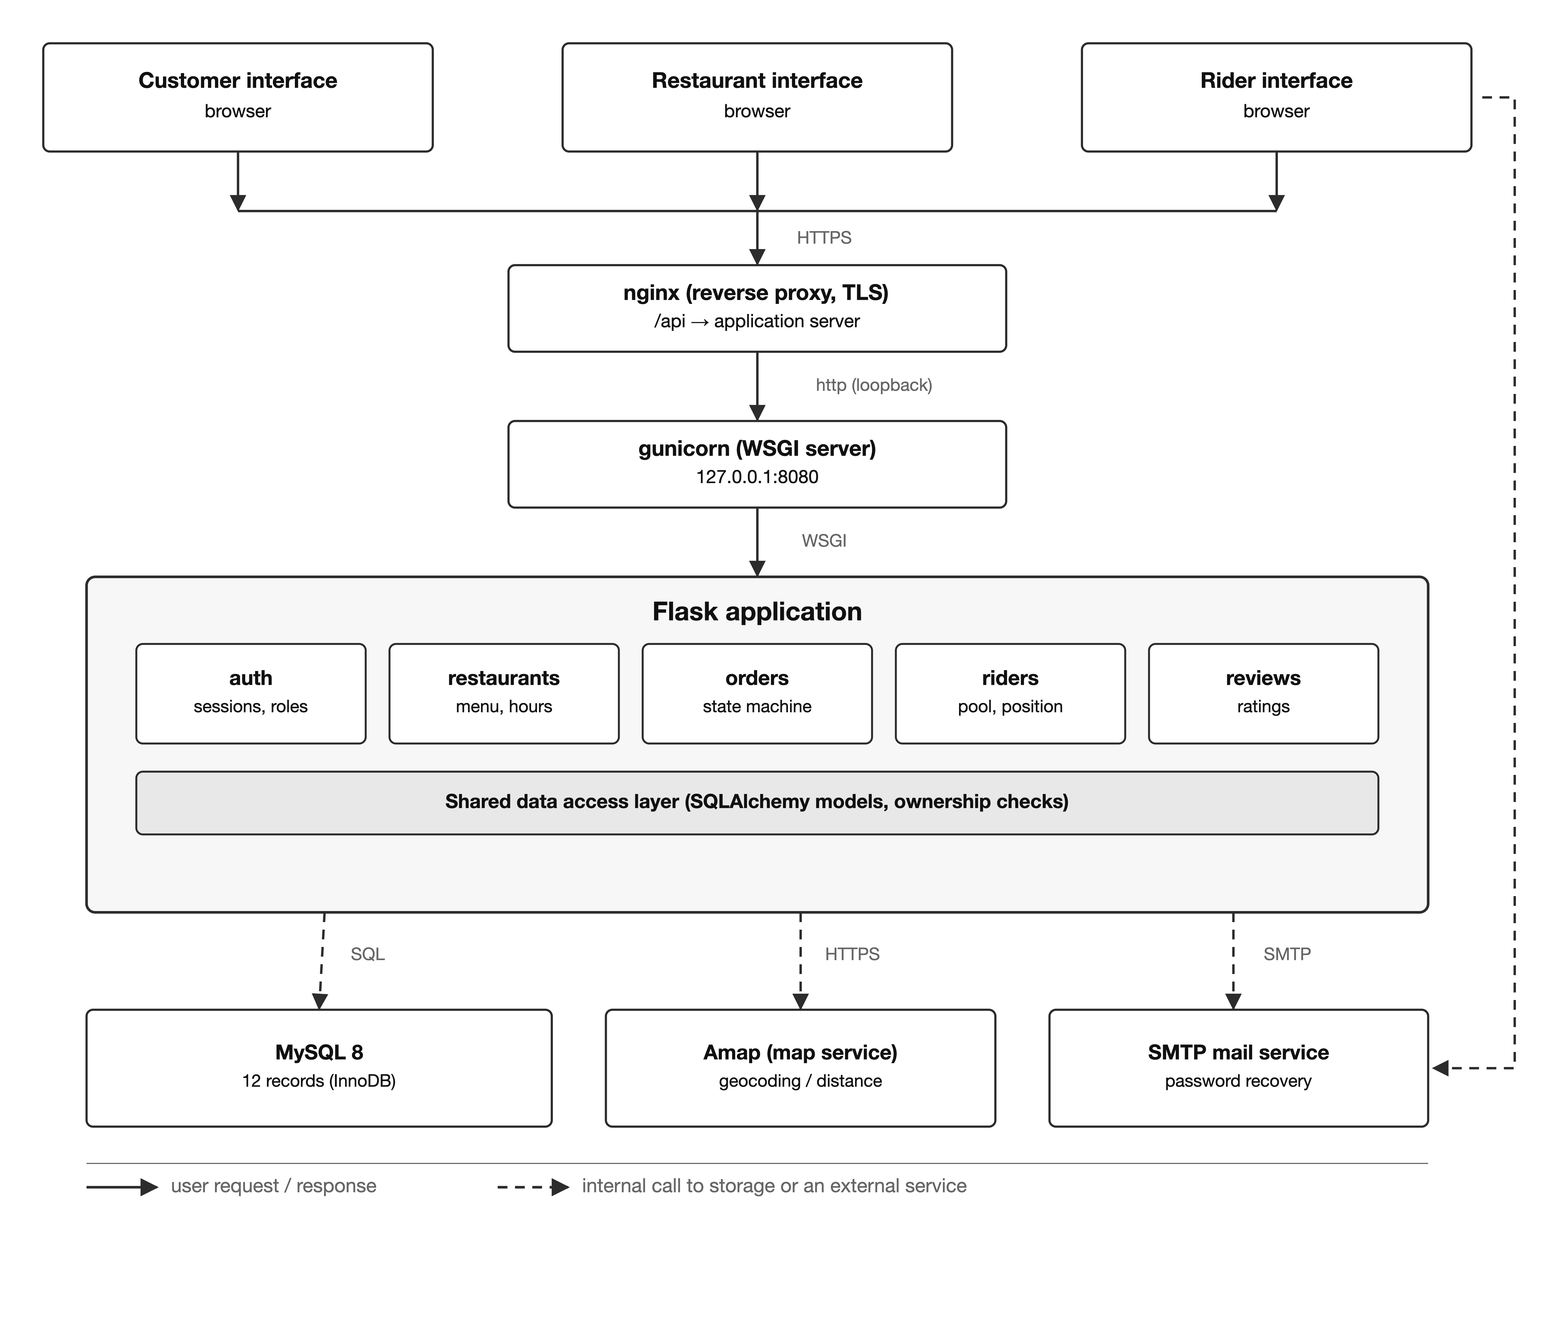
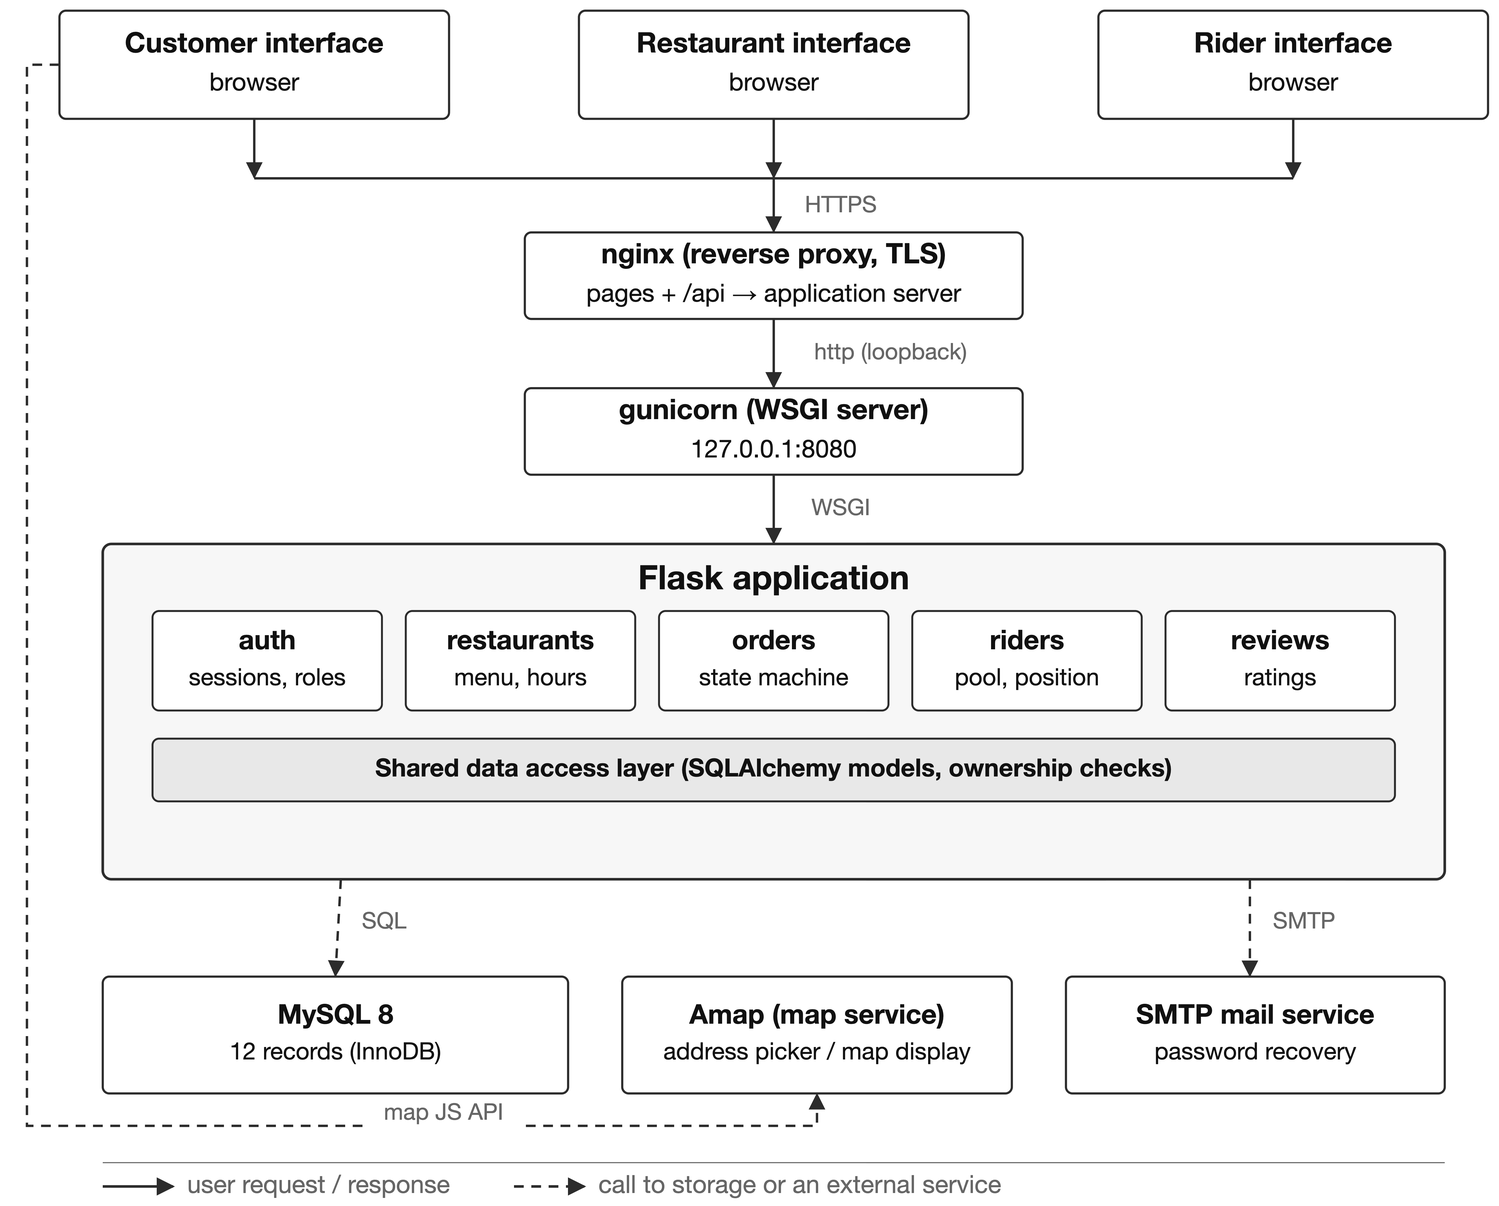
M1 report: align the design text and diagram with what was built
- vanilla fetch instead of jQuery/AJAX; nginx forwards pages as well as /api
- twelve records again: the missing rider-profile row is in Table 1
- cancellation rule matches the shipped state machine (free while placed or
  accepted, restaurant-only once the kitchen starts preparing), in both the
  LaTeX report and the design document
- one-time codes cover code sign-in, not only password reset
- reviews: duplicate rating refused in the endpoint, not by a constraint
- Amap: one browser key, no server call (radius is computed locally); the
  diagram no longer draws a server-to-map request, and the browser-to-map
  arrow no longer lands on the SMTP box
- diagram type ~30% larger, tighter crop, included at 0.68\linewidth
- Table 1 compacted so it no longer separates the 'User workflow' heading
  from its list; still 5 pages, no overfull boxes

diff --git a/docs/M1/main.tex b/docs/M1/main.tex
@@ -58,9 +58,10 @@ without them the topic's central workflow cannot be demonstrated. The remainder 
 \emph{optional} additions that we will attempt only once the essential set works end to end.
 
 \begin{itemize}
-\item \textbf{F1 --- Accounts and roles.} All three roles register and sign in through one entry
-point; the role determines which interface is shown. Result: an authenticated session that the
-server uses to authorise every later request.
+\item \textbf{F1 --- Accounts and roles.} Each role registers and signs in through its own
+interface; all three share one authentication module and one session, and the role decides what that
+session may reach. Result: an authenticated session that the server uses to
+authorise every later request.
 \item \textbf{F2 --- Restaurant menu and hours.} Restaurant staff set opening hours per weekday,
 add and edit dishes with price, calories and remaining stock, and mark a dish unavailable.
 Result: the public menu always reflects what the kitchen can actually produce now.
@@ -91,15 +92,15 @@ add value but are not required by the topic, so they come last and are reduced f
 \item \emph{Ownership.} A record may only be changed by the party that owns it: a dish by its
 own restaurant, an order by its own customer, restaurant or rider. The check is made on the
 server for every query, not by hiding controls in the interface.
-\item \emph{Transition authority.} Each state change belongs to exactly one role. Only the
-restaurant may accept and prepare; only a rider may collect and deliver. No role may skip a
+\item \emph{Transition authority.} Apart from cancellation, each state change belongs to exactly one
+role: only the restaurant may accept and prepare, and only a rider may collect and deliver. No role may skip a
 state.
 \item \emph{Claim exclusivity.} An order enters the rider pool only when it is ready and has no
 rider. Claiming is a single conditional update, so if two riders act at the same moment exactly
 one succeeds and the other is told the order has gone.
-\item \emph{Cancellation window.} Cancellation is free while the order is still awaiting
-acceptance. Once the restaurant has accepted, preparation may have started, so cancellation
-requires the restaurant's agreement.
+\item \emph{Cancellation window.} The customer may cancel while the order is placed or accepted,
+because nothing has been cooked yet. Once the kitchen starts preparing, only the restaurant may
+cancel, and it records why.
 \item \emph{Delivery range.} An order is refused if the selected address lies outside the
 restaurant's configured delivery radius, and the customer is told why.
 \item \emph{Record integrity.} Address and prices are copied into the order when it is placed.
@@ -110,7 +111,8 @@ Later edits to an address or a menu therefore cannot rewrite the history of past
 
 \noindent\textbf{Application structure.} Figure~\ref{fig:structure} shows the main parts.
 Three browser interfaces --- customer, restaurant and rider --- send requests over HTTPS to a
-reverse proxy, which forwards everything under \texttt{/api} to the application server. The
+reverse proxy, which forwards every request --- pages as well as \texttt{/api} --- to the
+application server. The
 application is divided into functional modules, one per business domain. The
 \emph{authentication module} establishes who the caller is and which role they hold.
 The \emph{restaurant module} manages shop profiles, opening hours and menu items. The
@@ -119,14 +121,16 @@ writes order states. The \emph{rider module} manages the claimable pool and posi
 The \emph{review module} records ratings against completed orders. All modules share one data
 access layer and one set of record definitions, so ownership checks are written in the same
 place for every request. The database holds the records in Table~\ref{tab:data}. Two external
-services are used: a map service, called from the browser to capture coordinates and from the
-server to verify them; and a mail service, used only for password recovery.
+services are used: a map service, loaded by the browser to pick addresses and to draw a rider's
+position; and a mail service, used only for one-time codes (code sign-in and password reset). The
+delivery radius is checked by the server itself, without the map service.
 
 \begin{figure}[h]
 \centering
-\includegraphics[width=0.66\linewidth]{structure.png}
+\includegraphics[width=0.68\linewidth]{structure.png}
 \caption{Main parts of the application. Solid arrows carry user requests and responses over
-HTTPS; the dashed arrows show internal calls to the database and to external services.}
+HTTPS; the dashed arrows show calls to the database, to the mail service, and --- from the
+browser --- to the map service.}
 \label{fig:structure}
 \end{figure}
 
@@ -134,7 +138,8 @@ HTTPS; the dashed arrows show internal calls to the database and to external ser
 information in each, and the functions that use or update them.
 
 \begin{table}[h]
-\small
+\footnotesize
+\renewcommand{\arraystretch}{1.0}
 \begin{tabularx}{\linewidth}{|p{27mm}|Y|Y|}
 \hline
 \textbf{Record}&\textbf{Information stored}&\textbf{Functions that use or update it}\\\hline
@@ -142,6 +147,8 @@ Users & Role, username, e-mail, display name, hashed password &
 F1 creates and authenticates; every other function reads it to decide permissions.\\\hline
 Restaurants & Owner, name, address and coordinates, delivery radius, minimum order, open flag &
 F2 updates it; F3 reads it to list shops and check the delivery radius.\\\hline
+Rider profiles & Rider, online flag, vehicle type, service radius &
+F1 creates it; F4 refuses a claim unless the rider is online.\\\hline
 Opening hours & Restaurant, weekday, open and close time, closed flag &
 F2 maintains; F3 uses it to refuse orders outside opening hours.\\\hline
 Menu items & Restaurant, name, price, calories, stock, available flag &
@@ -159,7 +166,7 @@ F7 appends them; F5 reads the latest one for display.\\\hline
 Coupons and claims & Code, owner, discount, threshold, claim status &
 F8 issues, claims and redeems them against an order.\\\hline
 Verification codes & E-mail, purpose, hashed code, expiry, attempts &
-F1 sends and checks them when a password is reset.\\\hline
+F1 sends and checks them for code sign-in and password resets.\\\hline
 \end{tabularx}
 \caption{Records, the information stored in each, and the functions that use them.}
 \label{tab:data}
@@ -201,21 +208,21 @@ this order.
 \end{enumerate}
 
 \emph{A situation that changes the process: cancellation.} Suppose the customer wants to cancel
-\emph{after} the restaurant has accepted and begun cooking. The normal path offers no free way
-out, because food has already been committed. The order module therefore does not cancel it
-directly: it records the request and surfaces it to the restaurant, whose decision it is. If the
-restaurant agrees, the order moves to \emph{cancelled} with the cancelling party and reason
-recorded alongside the timestamp; the order disappears from the restaurant's queue, and if a
-rider had already claimed it, that rider is released and the order leaves the pool. If the
-restaurant refuses, the order simply continues along the normal path. The same mechanism covers
-the reverse timing: while the order is still \emph{pending} nothing has been committed, so the
-customer cancels immediately and no restaurant action is needed. The rule is thus a property of
-the order's state, not of the interface the request arrived from.
+\emph{after} the kitchen has started preparing the food. The normal path offers no free way out,
+because ingredients have already been committed. The order module therefore refuses the
+customer's cancellation and tells them to contact the restaurant, whose decision it is. If the
+restaurant agrees, the order moves to \emph{cancelled}, with the cancelling party and reason
+recorded alongside the timestamp; it disappears from the restaurant's queue and from the rider
+pool, and any payment is marked refunded. If the restaurant refuses, the order simply continues
+along the normal path. The same rule covers the reverse timing: while the order is still
+\emph{pending} or \emph{accepted} nothing has been cooked, so the customer cancels directly. The rule is thus a property of the order's state, not of the
+interface the request arrived from.
 
 \section{Technology Choices}
 
-\noindent\textbf{Browser.} HTML5 and CSS3 for structure and presentation; JavaScript with jQuery
-and AJAX for interaction and for calling the server without reloading the page; Jinja2 templates
+\noindent\textbf{Browser.} HTML5 and CSS3 for structure and presentation; JavaScript with the
+browser's \texttt{fetch} API for interaction and for calling the server without reloading the
+page; Jinja2 templates
 on the server to render the three role interfaces. The browser is responsible for presentation
 and input validation only --- including the map, which captures the address coordinates.
 
@@ -228,13 +235,13 @@ database credentials.
 \noindent\textbf{Data storage.} MySQL 8 with InnoDB and \texttt{utf8mb4}, holding the twelve
 records in Table~\ref{tab:data}. A relational store is the right fit because the rules above are
 relational: ownership is a column on the row, claim exclusivity is \emph{one} conditional
-\texttt{UPDATE} guarded by \texttt{rider\_id IS NULL}, one-review-per-order is a unique
-constraint, and per-order history is preserved by copying values rather than joining to live
+\texttt{UPDATE} guarded by \texttt{rider\_id IS NULL}, duplicate ratings for the same order
+and target are refused, and per-order history is preserved by copying values rather than joining to live
 ones. Foreign keys keep the order graph consistent while a record is passed between roles.
 
 \noindent\textbf{Why this combination suits the project.} One language for the server and the
 data layer keeps the ownership checks in one place, which matters because every function depends
-on them; server-rendered pages with AJAX keep the three interfaces simple while still allowing
+on them; server-rendered pages with asynchronous requests keep the three interfaces simple while still allowing
 progress to refresh without a reload; and the relational model expresses the topic's own
 language --- availability, ownership, approval --- directly as constraints.
 
@@ -245,16 +252,16 @@ were chosen for specific reasons.
 \item \emph{Map service (Amap)} --- used to let a customer point at a delivery address instead
 of typing it, and to check the delivery radius. The benefit is direct: hand-typed addresses are
 the main source of the address problems the topic names, and pointing at a map removes that
-ambiguity at source. Management: two separate keys are used, a browser key restricted by domain
-and a server key kept on the server only; the radius check uses straight-line distance computed
-locally, so the ordering flow still works if the service is unavailable, and the address field
-falls back to text. Integration has already been carried out and verified end to end.
+ambiguity at source. Management: one browser key, restricted by domain and paired with a security
+code, is the only credential exposed; the radius check uses straight-line distance computed
+locally, so no server-side key is needed, the ordering flow still works if the service is
+unavailable, and the address field falls back to text. Integration has already been carried out and verified end to end.
 \item \emph{nginx and gunicorn (deployment)} --- the reverse proxy terminates HTTPS and forwards
 requests; gunicorn runs the application. This is an operational rather than a functional
 choice: Flask's built-in server is explicitly not intended for production, and HTTPS is a
 prerequisite for the browser location API used in F7. Management: the configuration is fixed and
 documented; the application code is unchanged.
-\item \emph{E-mail service (SMTP)} --- used only to send a one-time code for password recovery.
+\item \emph{E-mail service (SMTP)} --- used only to send one-time codes for code sign-in and password reset.
 It is the only out-of-band channel available to us at no cost, since programmatic SMS here
 requires a paid registered signature and pre-approved templates. Management: sending is
 isolated so a failure cannot fail the request, and the code's expiry, single use and attempt

diff --git a/docs/M1/make_structure.py b/docs/M1/make_structure.py
@@ -18,7 +18,7 @@ import math
 # 画布（正方形，最后会裁掉留白）
 CANVAS = 1600
 # 内容实际范围（裁图用）
-CROP = (100, 60, 1540, 1300)      # x0, y0, x1, y1
+CROP = (85, 90, 1470, 1205)       # x0, y0, x1, y1
 
 FONT = "Helvetica Neue, Helvetica, Arial, sans-serif"
 
@@ -34,7 +34,7 @@ def esc(s):
     return html.escape(str(s))
 
 
-def box(x, y, w, h, lines, fill=C_BOX, bold_first=True, size=20, rx=6, stroke=2.0):
+def box(x, y, w, h, lines, fill=C_BOX, bold_first=True, size=26, rx=6, stroke=2.0):
     out = [f'<rect x="{x}" y="{y}" width="{w}" height="{h}" rx="{rx}" '
            f'fill="{fill}" stroke="{C_STROKE}" stroke-width="{stroke}"/>']
     n = len(lines)
@@ -50,7 +50,7 @@ def box(x, y, w, h, lines, fill=C_BOX, bold_first=True, size=20, rx=6, stroke=2.
     return "".join(out)
 
 
-def arrow(x1, y1, x2, y2, dashed=False, label=None, lx=None, ly=None, lsize=16):
+def arrow(x1, y1, x2, y2, dashed=False, label=None, lx=None, ly=None, lsize=21):
     m = "arrd" if dashed else "arr"
     d = ' stroke-dasharray="9,7"' if dashed else ""
     out = [f'<line x1="{x1}" y1="{y1}" x2="{x2}" y2="{y2}" stroke="{C_STROKE}" '
@@ -106,7 +106,7 @@ def build():
 
     # ---------- nginx ----------
     nx, nw, nh, ny = mid - 230, 460, 80, merge_y + 50
-    p.append(box(nx, ny, nw, nh, ["nginx  (reverse proxy, TLS)", "/api  →  application server"]))
+    p.append(box(nx, ny, nw, nh, ["nginx  (reverse proxy, TLS)", "pages + /api  →  application server"]))
     p.append(arrow(xs[1] + bw / 2, merge_y, xs[1] + bw / 2, ny - 1,
                    label="HTTPS", lx=xs[1] + bw / 2 + 62, ly=merge_y + 26))
 
@@ -120,7 +120,7 @@ def build():
     fx, fw, fy, fh = 180, 1240, gy + gh + 64, 310
     p.append(f'<rect x="{fx}" y="{fy}" width="{fw}" height="{fh}" rx="8" fill="{C_BOX_ALT}" '
              f'stroke="{C_STROKE}" stroke-width="2.4"/>')
-    p.append(f'<text x="{mid}" y="{fy+34}" font-family="{FONT}" font-size="24" font-weight="700" '
+    p.append(f'<text x="{mid}" y="{fy+34}" font-family="{FONT}" font-size="31" font-weight="700" '
              f'fill="{C_TEXT}" text-anchor="middle" dominant-baseline="middle">'
              f'Flask application</text>')
     p.append(arrow(mid, gy + gh, mid, fy - 1, label="WSGI", lx=mid + 62, ly=gy + gh + 32))
@@ -134,46 +134,47 @@ def build():
             ("orders", "state machine"), ("riders", "pool, position"),
             ("reviews", "ratings")]
     for i, (name, sub) in enumerate(mods):
-        p.append(box(mx0 + i * (mw + msep), my, mw, mh, [name, sub], size=19, stroke=1.8))
+        p.append(box(mx0 + i * (mw + msep), my, mw, mh, [name, sub], size=25, stroke=1.8))
 
     # 共享数据访问层
     sx, sw, sh, sy = mx0, total, 58, my + mh + 26
     p.append(box(sx, sy, sw, sh, ["Shared data access layer (SQLAlchemy models, ownership checks)"],
-                 fill=C_HEAD, size=18, stroke=1.8))
+                 fill=C_HEAD, size=23, stroke=1.8))
 
     # ---------- 数据与外部服务 ----------
     dy, dh = fy + fh + 90, 108
     store = [("MySQL 8", "12 records (InnoDB)", 180, 430),
-             ("Amap (map service)", "geocoding / distance", 660, 360),
+             ("Amap (map service)", "address picker / map display", 660, 360),
              ("SMTP mail service", "password recovery", 1070, 350)]
 
     for name, sub, x, w in store:
-        p.append(box(x, dy, w, dh, [name, sub], size=19))
+        p.append(box(x, dy, w, dh, [name, sub], size=25))
 
     # Flask → MySQL / Amap / SMTP（虚线）
     p.append(arrow(400, fy + fh, 395, dy - 1, dashed=True, label="SQL",
                    lx=440, ly=fy + fh + 40))
-    p.append(arrow(840, fy + fh, 840, dy - 1, dashed=True, label="HTTPS",
-                   lx=888, ly=fy + fh + 40))
     p.append(arrow(1240, fy + fh, 1240, dy - 1, dashed=True, label="SMTP",
                    lx=1290, ly=fy + fh + 40))
 
-    # 浏览器 → Amap（地图 JS API），沿右侧走线
-    p.append(path(f"M {1470} {by + bh/2} L 1500 {by + bh/2} L 1500 {dy + dh/2} "
-                  f"L {1425} {dy + dh/2}", dashed=True))
+    # 浏览器 → Amap（地图 JS API）：沿左侧下行，从底部绕到 Amap 下方
+    p.append(path(f"M {xs[0]} {by + bh/2} L 110 {by + bh/2} L 110 {dy + dh + 30} "
+                  f"L 840 {dy + dh + 30} L 840 {dy + dh + 1}", dashed=True))
+    p.append(f'<rect x="420" y="{dy + dh + 6}" width="150" height="26" fill="#ffffff"/>')
+    p.append(f'<text x="495" y="{dy + dh + 19}" font-family="{FONT}" font-size="21" '
+             f'fill="{C_SOFT}" text-anchor="middle" dominant-baseline="middle">map JS API</text>')
 
     # ---------- 图例 ----------
-    ly0 = dy + dh + 56
+    ly0 = dy + dh + 86
     p.append(f'<line x1="180" y1="{ly0 - 22}" x2="1420" y2="{ly0 - 22}" '
              f'stroke="{C_SOFT}" stroke-width="1"/>')
     p.append(f'<line x1="180" y1="{ly0}" x2="245" y2="{ly0}" stroke="{C_STROKE}" '
              f'stroke-width="2.4" marker-end="url(#arr)"/>')
-    p.append(f'<text x="258" y="{ly0}" font-family="{FONT}" font-size="18" fill="{C_SOFT}" '
+    p.append(f'<text x="258" y="{ly0}" font-family="{FONT}" font-size="23" fill="{C_SOFT}" '
              f'dominant-baseline="middle">user request / response</text>')
     p.append(f'<line x1="560" y1="{ly0}" x2="625" y2="{ly0}" stroke="{C_STROKE}" '
              f'stroke-width="2.4" stroke-dasharray="9,7" marker-end="url(#arrd)"/>')
-    p.append(f'<text x="638" y="{ly0}" font-family="{FONT}" font-size="18" fill="{C_SOFT}" '
-             f'dominant-baseline="middle">internal call to storage or an external service</text>')
+    p.append(f'<text x="638" y="{ly0}" font-family="{FONT}" font-size="23" fill="{C_SOFT}" '
+             f'dominant-baseline="middle">call to storage or an external service</text>')
 
     p.append("</svg>")
     return "\n".join(p)

diff --git a/docs/M1-设计报告.md b/docs/M1-设计报告.md
@@ -141,7 +141,7 @@ Requirements are numbered `FR-n` and each is traced to its justification.
 |---|---|---|
 | FR-15 | An order moves through an explicit, enforced state machine | Topic: *"coordinate preparation and collection"* |
 | FR-16 | Only the role that owns a transition may perform it (e.g. only the restaurant may accept) | Topic: isolation clause; also prevents forged state changes |
-| FR-17 | A customer may cancel free of charge before the restaurant accepts; afterwards cancellation requires the restaurant's agreement | Topic: *"cancellations … can interrupt the normal process"* |
+| FR-17 | A customer may cancel free of charge while the order is placed or accepted; once the kitchen starts preparing, only the restaurant may cancel and it records the reason | Topic: *"cancellations … can interrupt the normal process"* |
 | FR-18 | A restaurant may flag an order as delayed, and the customer sees this | Topic: *"Delays … can interrupt the normal process"* |
 | FR-19 | A customer may change the delivery address before collection, and the assigned rider is notified | Topic: *"address problems"* |
 
@@ -217,7 +217,7 @@ The order is the shared object. Its state is the single source of truth for all 
 | State | Meaning | Who may act next |
 |---|---|---|
 | `pending` | Placed, awaiting the restaurant | Restaurant accepts / Customer cancels free |
-| `accepted` | Restaurant has taken the order | Restaurant starts preparing |
+| `accepted` | Restaurant has taken the order | Restaurant starts preparing / Customer cancels free |
 | `preparing` | Food is being made | Restaurant marks ready |
 | `ready` | Prepared, awaiting collection | Any rider may claim |
 | `delivering` | Rider has collected the food | Rider marks delivered |
@@ -280,7 +280,7 @@ The topic names four failure modes. Each is mapped to a concrete workflow.
 | **Delay** | Restaurant or rider flags the order; the customer's progress view shows the delay and a revised estimate. Timestamps (`accepted_at`, `ready_at`, `picked_up_at`) record where time was actually spent. |
 | **Unavailable dish** | Restaurant marks the dish sold out. It is hidden from the public menu and cannot be ordered. If it is already in a pending order, the restaurant contacts the customer via the order's contact details (the order retains the dish as a snapshot). |
 | **Address problem** | Two cases: (a) the address is outside the delivery radius → rejected at checkout; (b) the customer changes the address before collection → the order's snapshot is updated and the assigned rider is notified. |
-| **Cancellation** | Free while `pending`. After the restaurant accepts, cancellation requires the restaurant to agree, since preparation may have begun. The order records who cancelled and why. |
+| **Cancellation** | Free while `pending` or `accepted`, because nothing has been cooked yet. Once the kitchen starts `preparing`, only the restaurant can cancel: it records who cancelled and why, and any payment is refunded. |
 
 ---
 
